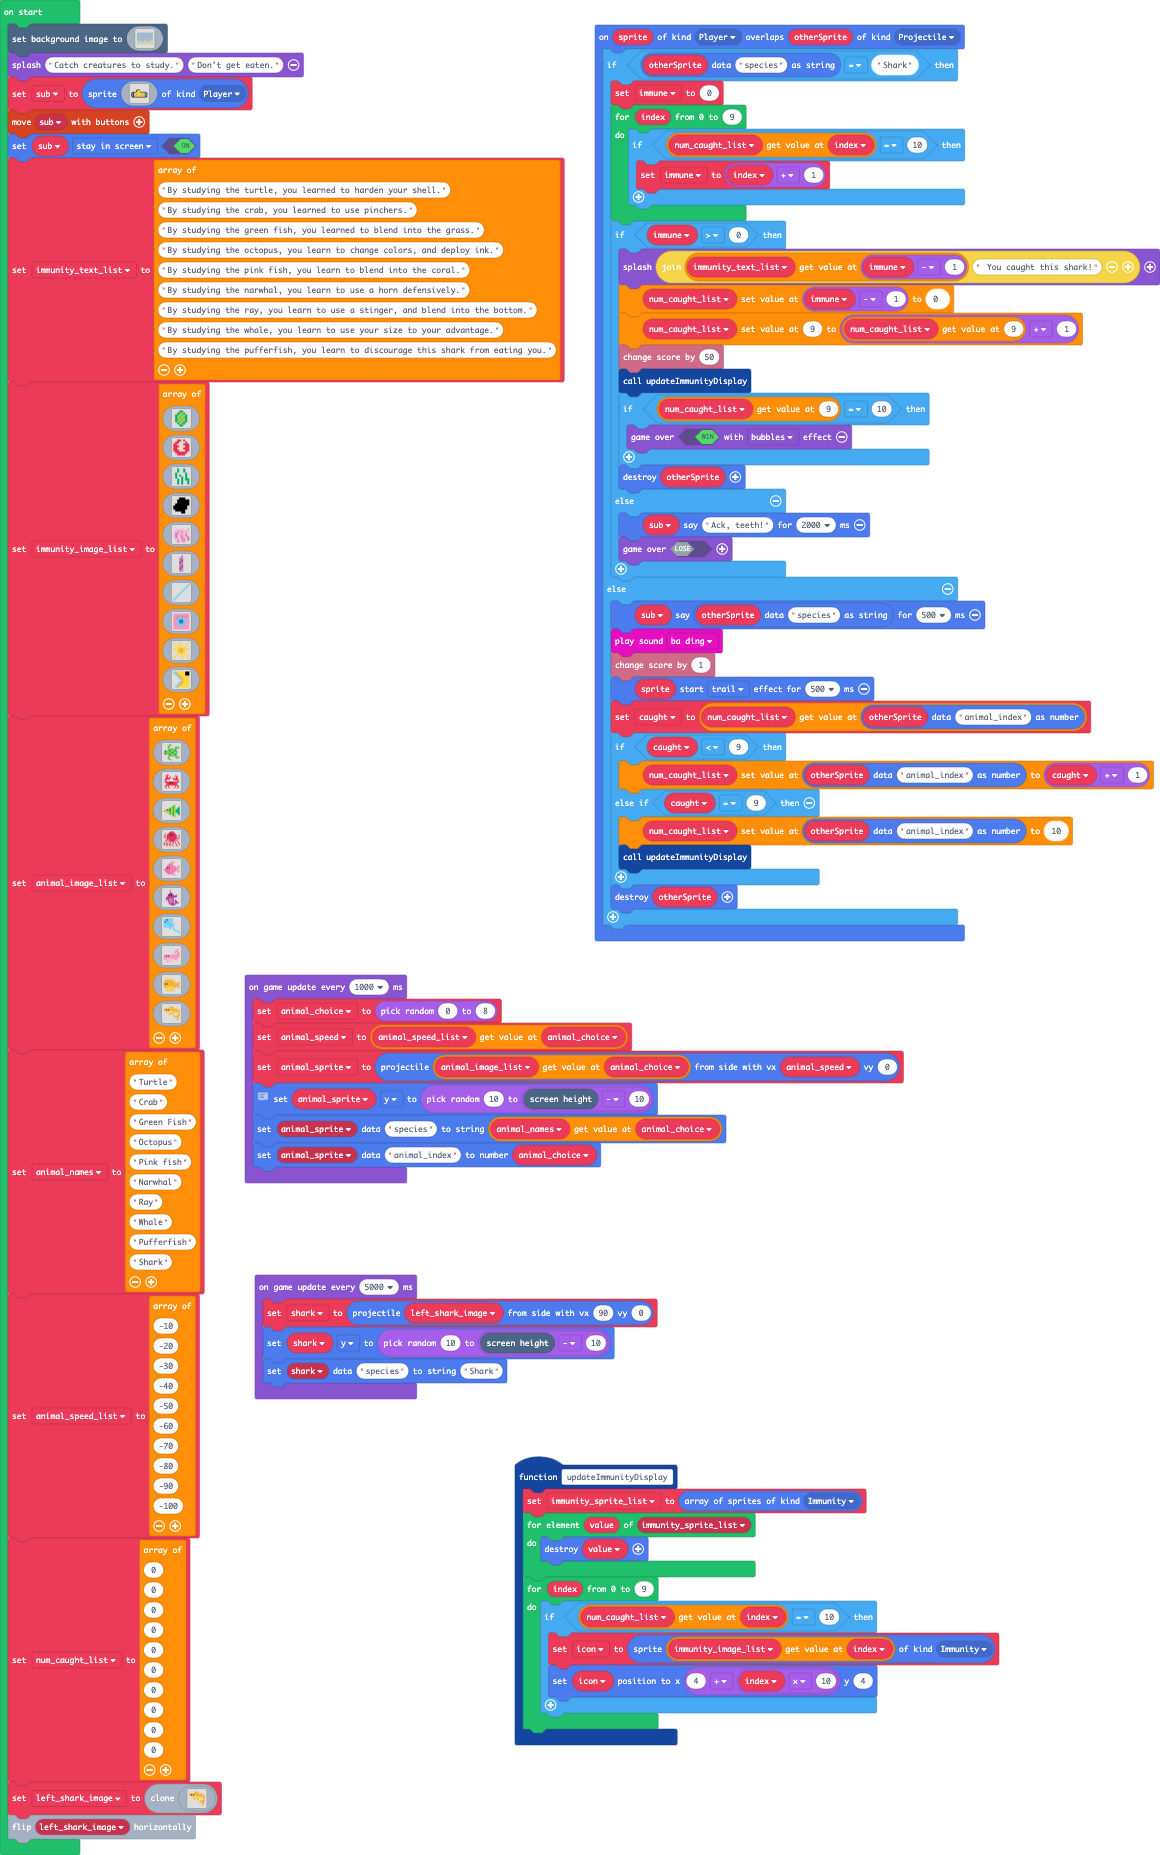
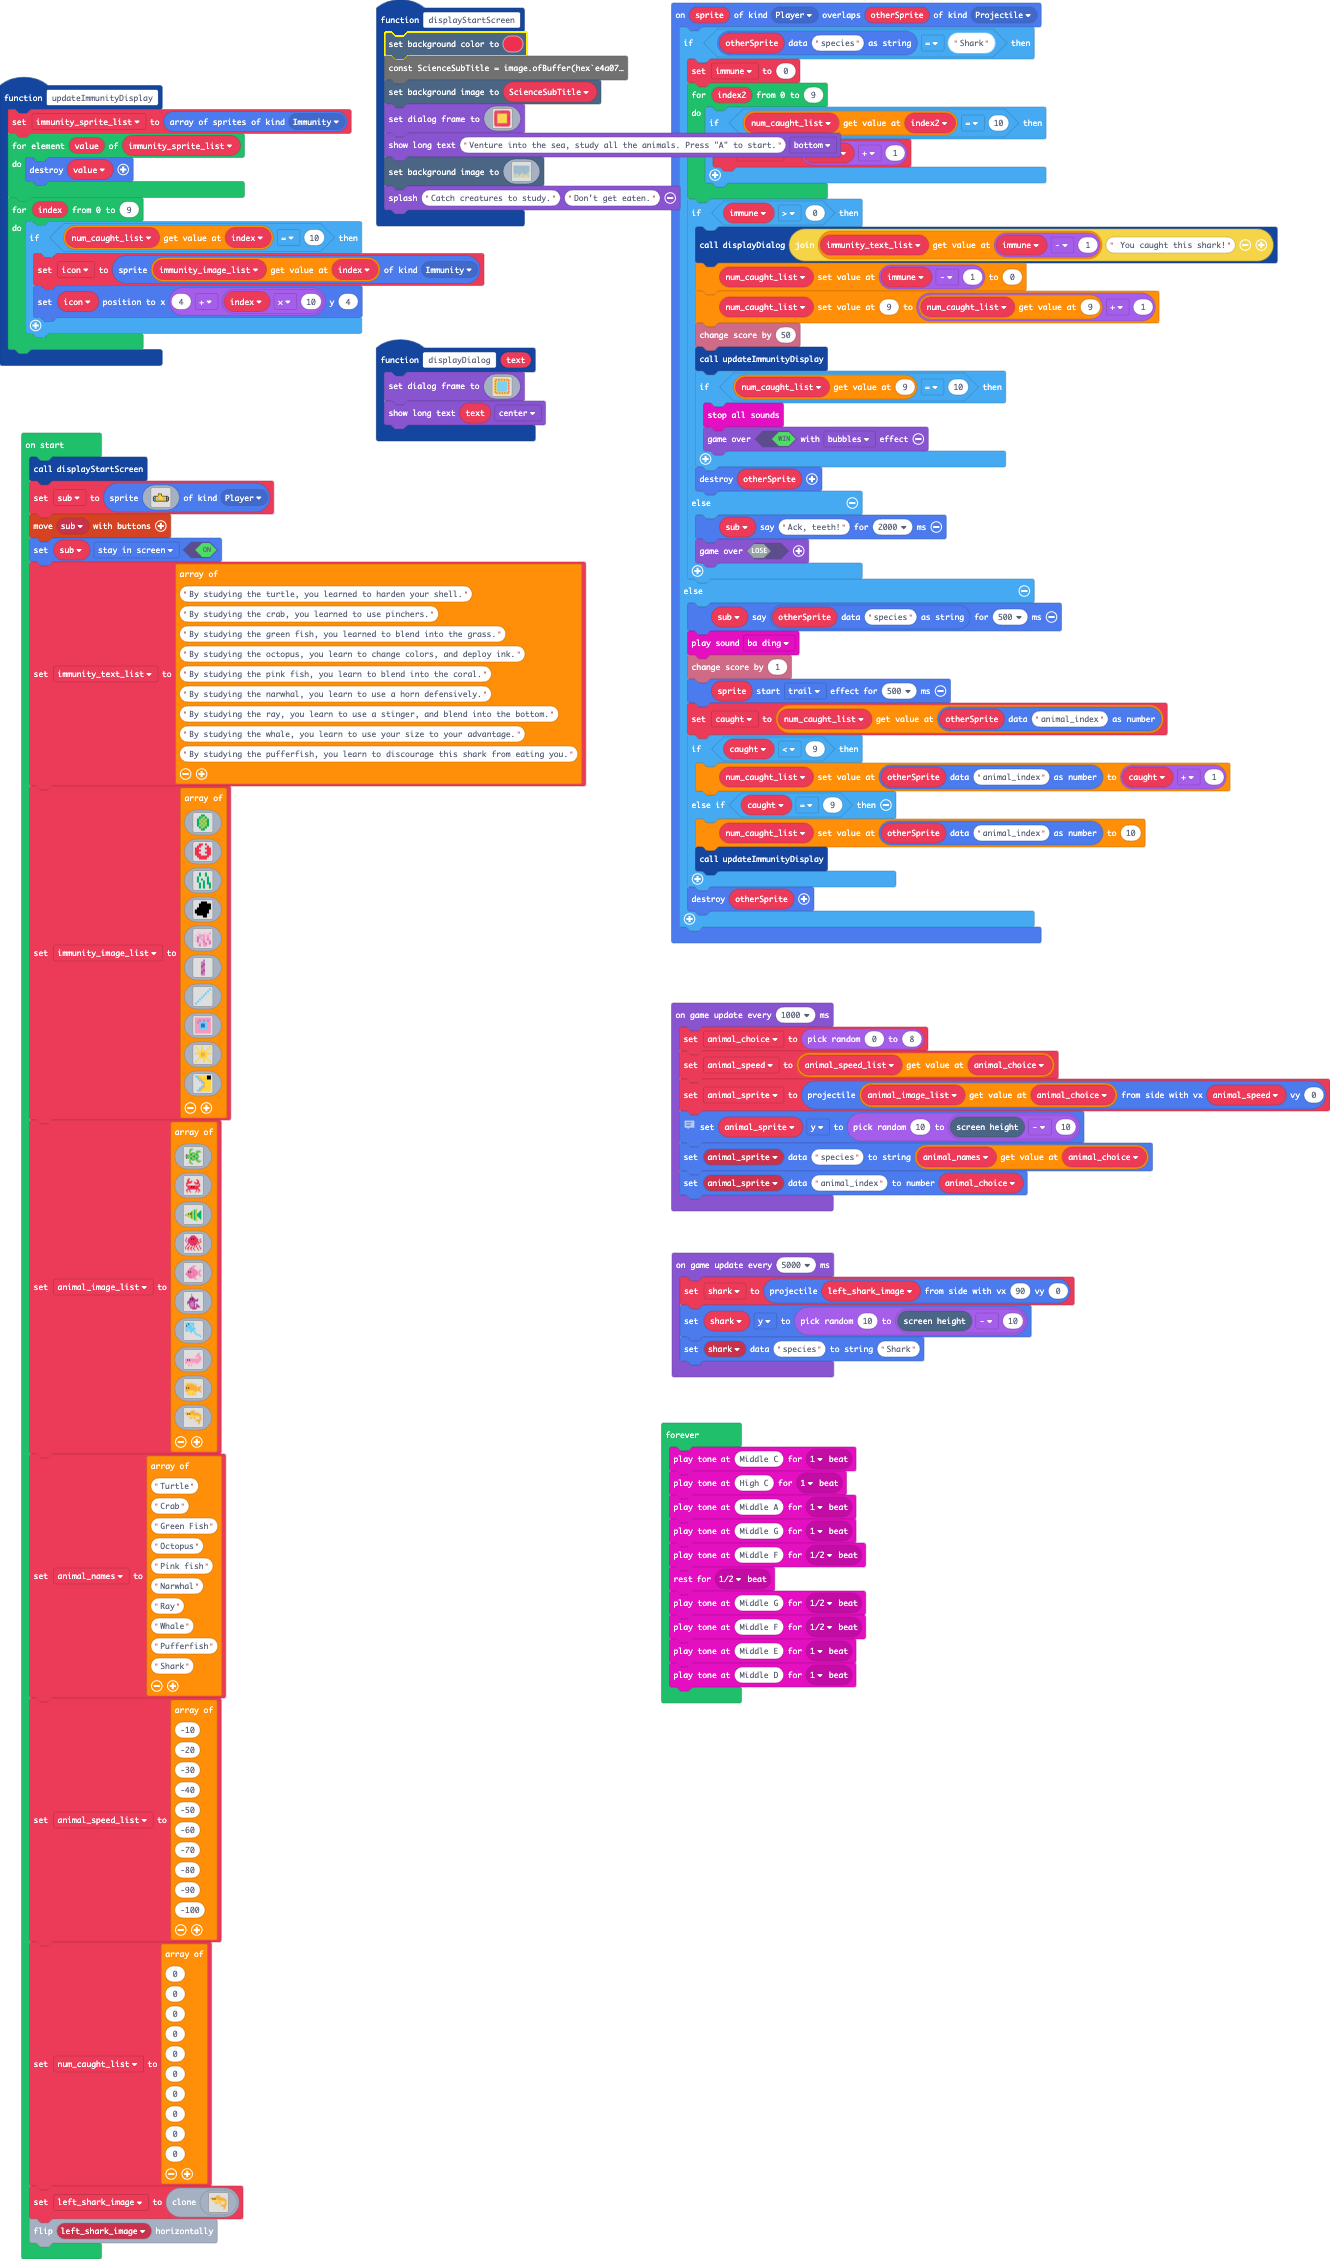
Title Screen, theme music.

diff --git a/main.ts b/main.ts
@@ -41,6 +41,35 @@ namespace myTiles {
 . . . . . . . . . . . . . . . . 
 `
 }
+function displayDialog (text: string) {
+    game.setDialogFrame(img`
+. . e e e e e e e e e e e e e e e e e e e e . . 
+. e 4 4 e e 4 4 e e 4 4 e e 4 4 e e 4 4 e e e . 
+e e e 4 4 e e 4 4 e e 4 4 e e 4 4 e e 4 4 e 4 e 
+e e 4 e e e e e e e e e e e e e e e e e e 4 4 e 
+e 4 4 e e b b b b b b b b b b b b b b e e 4 e e 
+e 4 e e b b b b b b b b b b b b b b b b e e e e 
+e e e e b b b b b b b b b b b b b b b b e e 4 e 
+e e 4 e b b b b b b b b b b b b b b b b e 4 4 e 
+e 4 4 e b b b b b b b b b b b b b b b b e 4 e e 
+e 4 e e b b b b b b b b b b b b b b b b e e e e 
+e e e e b b b b b b b b b b b b b b b b e e 4 e 
+e e 4 e b b b b b b b b b b b b b b b b e 4 4 e 
+e 4 4 e b b b b b b b b b b b b b b b b e 4 e e 
+e 4 e e b b b b b b b b b b b b b b b b e e e e 
+e e e e b b b b b b b b b b b b b b b b e e 4 e 
+e e 4 e b b b b b b b b b b b b b b b b e 4 4 e 
+e 4 4 e b b b b b b b b b b b b b b b b e 4 e e 
+e 4 e e b b b b b b b b b b b b b b b b e e e e 
+e e e e b b b b b b b b b b b b b b b b e e 4 e 
+e e 4 e e b b b b b b b b b b b b b b e e 4 4 e 
+e 4 4 e e e e e e e e e e e e e e e e e e 4 e e 
+e 4 e 4 4 e e 4 4 e e 4 4 e e 4 4 e e 4 4 e e e 
+. e e e 4 4 e e 4 4 e e 4 4 e e 4 4 e e 4 4 e . 
+. . e e e e e e e e e e e e e e e e e e e e . . 
+`)
+    game.showLongText(text, DialogLayout.Center)
+}
 function updateImmunityDisplay () {
     immunity_sprite_list = sprites.allOfKind(SpriteKind.Immunity)
     for (let value of immunity_sprite_list) {
@@ -53,56 +82,29 @@ function updateImmunityDisplay () {
         }
     }
 }
-sprites.onOverlap(SpriteKind.Player, SpriteKind.Projectile, function (sprite, otherSprite) {
-    if (sprites.readDataString(otherSprite, "species") == "Shark") {
-        immune = 0
-        for (let index = 0; index <= 9; index++) {
-            if (num_caught_list[index] == 10) {
-                immune = index + 1
-            }
-        }
-        if (immune > 0) {
-            game.splash("" + immunity_text_list[immune - 1] + " You caught this shark!")
-            num_caught_list[immune - 1] = 0
-            num_caught_list[9] = num_caught_list[9] + 1
-            info.changeScoreBy(50)
-            updateImmunityDisplay()
-            if (num_caught_list[9] == 10) {
-                game.over(true, effects.bubbles)
-            }
-            otherSprite.destroy()
-        } else {
-            sub.say("Ack, teeth!", 2000)
-            game.over(false)
-        }
-    } else {
-        sub.say(sprites.readDataString(otherSprite, "species"), 500)
-        music.baDing.play()
-        info.changeScoreBy(1)
-        sprite.startEffect(effects.trail, 500)
-        caught = num_caught_list[sprites.readDataNumber(otherSprite, "animal_index")]
-        if (caught < 9) {
-            num_caught_list[sprites.readDataNumber(otherSprite, "animal_index")] = caught + 1
-        } else if (caught == 9) {
-            num_caught_list[sprites.readDataNumber(otherSprite, "animal_index")] = 10
-            updateImmunityDisplay()
-        }
-        otherSprite.destroy()
-    }
-})
-let animal_sprite: Sprite = null
-let animal_speed = 0
-let animal_choice = 0
-let shark: Sprite = null
-let caught = 0
-let immune = 0
-let icon: Sprite = null
-let immunity_sprite_list: Sprite[] = []
-let num_caught_list: number[] = []
-let immunity_image_list: Image[] = []
-let immunity_text_list: string[] = []
-let sub: Sprite = null
-scene.setBackgroundImage(img`
+function displayStartScreen () {
+    scene.setBackgroundColor(4)
[1 lines of base64/hex data omitted]
+scene.setBackgroundImage(ScienceSubTitle)
+    game.setDialogFrame(img`
+. 4 4 4 4 4 4 4 4 4 4 4 4 4 . 
+4 4 4 4 4 4 4 4 4 4 4 4 4 4 4 
+4 4 4 4 4 4 4 4 4 4 4 4 4 4 4 
+4 4 4 e e e e e e e e e 4 4 4 
+4 4 4 e e e e e e e e e 4 4 4 
+4 4 4 e e e e e e e e e 4 4 4 
+4 4 4 e e e e e e e e e 4 4 4 
+4 4 4 e e e e e e e e e 4 4 4 
+4 4 4 e e e e e e e e e 4 4 4 
+4 4 4 e e e e e e e e e 4 4 4 
+4 4 4 e e e e e e e e e 4 4 4 
+4 4 4 e e e e e e e e e 4 4 4 
+4 4 4 4 4 4 4 4 4 4 4 4 4 4 4 
+4 4 4 4 4 4 4 4 4 4 4 4 4 4 4 
+. 4 4 4 4 4 4 4 4 4 4 4 4 4 . 
+`)
+    game.showLongText("Venture into the sea, study all the animals. Press \"A\" to start.", DialogLayout.Bottom)
+    scene.setBackgroundImage(img`
 a a a a a a a a a a a a a a a a a a a a a a a a a a a a a a a a a a a a a a a a a a a a a a a a a a a a a a a a a a a a a a a a a a a a a a a a a a a a a a a a a a a a a a a a a a a a a a a a a a a a a a a a a a a a a a a a a a a a a a a a a a a a a a a a a a a a a a a a a a a a a a a a a a a a a a a a a a a a a a a a 
 a a a a a a a a a a a a a a a a a a a a a a a a a a a a a a a a a a a a a a a a a a a a a a a a a a a a a a a a a a a a a a a a a a a a a a a a a a a a a a a a a a a a a a a a a a a a a a a a a a a a a a a a a a a a a a a a a a a a a a a a a a a a a a a a a a a a a a a a a a a a a a a a a a a a a a a a a a a a a a a a 
 a a a a a a a a a a a a a a a a a a a a a a a a a a a a a a a a a a a a a a a a a a a a a a a a a a a a a a a a a a a a a a a a a a a a a a a a a a a a a a a a a a a a a a a a a a a a a a a a a a a a a a a a a a a a a a a a a a a a a a a a a a a a a a a a a a a a a a a a a a a a a a a a a a a a a a a a a a a a a a a a 
@@ -224,7 +226,59 @@ d 7 7 7 7 7 7 7 7 7 7 7 7 7 7 7 7 7 7 7 7 d d d d d d d d d d d d 7 7 7 7 7 d d 
 7 7 7 7 7 7 7 7 7 7 7 7 7 7 7 7 7 7 7 7 7 7 7 7 7 7 7 7 7 7 7 7 7 7 7 7 7 7 7 7 7 7 7 7 7 7 7 7 7 7 7 7 7 7 7 7 7 7 7 7 7 7 7 7 7 7 7 d d d d d d 7 7 7 7 7 7 7 7 7 7 7 7 7 7 7 7 7 7 7 7 7 7 7 7 7 d d d d d d d d d d d d d d d d d d d d d d d d d d d d d d d d d d d d d d d d d d d d d d d d d d d d d d 7 7 7 7 7 7 7 7 
 7 7 7 7 7 7 7 7 7 7 7 7 7 7 7 7 7 7 7 7 7 7 7 7 7 7 7 7 7 7 7 7 7 7 7 7 7 7 7 7 7 7 7 7 7 7 7 7 7 7 7 7 7 7 7 7 7 7 7 7 7 7 7 7 7 7 7 7 7 7 7 7 7 7 7 7 7 7 7 7 7 7 7 7 7 7 7 7 7 7 7 7 7 7 7 7 7 7 d d d d d d d d d d d d d d d d d d d d d d d d d d d d d d d d d d d d d d d d d d d d d d d d d d d d d d 7 7 7 7 7 7 7 7 
 `)
-game.splash("Catch creatures to study.", "Don't get eaten.")
+    game.splash("Catch creatures to study.", "Don't get eaten.")
+}
+sprites.onOverlap(SpriteKind.Player, SpriteKind.Projectile, function (sprite, otherSprite) {
+    if (sprites.readDataString(otherSprite, "species") == "Shark") {
+        immune = 0
+        for (let index2 = 0; index2 <= 9; index2++) {
+            if (num_caught_list[index2] == 10) {
+                immune = index2 + 1
+            }
+        }
+        if (immune > 0) {
+            displayDialog("" + immunity_text_list[immune - 1] + " You caught this shark!")
+            num_caught_list[immune - 1] = 0
+            num_caught_list[9] = num_caught_list[9] + 1
+            info.changeScoreBy(50)
+            updateImmunityDisplay()
+            if (num_caught_list[9] == 10) {
+                music.stopAllSounds()
+                game.over(true, effects.bubbles)
+            }
+            otherSprite.destroy()
+        } else {
+            sub.say("Ack, teeth!", 2000)
+            game.over(false)
+        }
+    } else {
+        sub.say(sprites.readDataString(otherSprite, "species"), 500)
+        music.baDing.play()
+        info.changeScoreBy(1)
+        sprite.startEffect(effects.trail, 500)
+        caught = num_caught_list[sprites.readDataNumber(otherSprite, "animal_index")]
+        if (caught < 9) {
+            num_caught_list[sprites.readDataNumber(otherSprite, "animal_index")] = caught + 1
+        } else if (caught == 9) {
+            num_caught_list[sprites.readDataNumber(otherSprite, "animal_index")] = 10
+            updateImmunityDisplay()
+        }
+        otherSprite.destroy()
+    }
+})
+let animal_sprite: Sprite = null
+let animal_speed = 0
+let animal_choice = 0
+let shark: Sprite = null
+let caught = 0
+let immune = 0
+let icon: Sprite = null
+let immunity_sprite_list: Sprite[] = []
+let num_caught_list: number[] = []
+let immunity_image_list: Image[] = []
+let immunity_text_list: string[] = []
+let sub: Sprite = null
+displayStartScreen()
 sub = sprites.create(img`
 . . . . . . . . . . . f f f f f f . . . . . . . . . . . . . . . 
 . . . . . . . . . . f d e d e e e f . . . . . . . . . . . . . . 
@@ -534,6 +588,18 @@ game.onUpdateInterval(5000, function () {
     shark = sprites.createProjectileFromSide(left_shark_image, 90, 0)
     shark.y = Math.randomRange(10, scene.screenHeight() - 10)
     sprites.setDataString(shark, "species", "Shark")
+})
+forever(function () {
+    music.playTone(262, music.beat(BeatFraction.Whole))
+    music.playTone(523, music.beat(BeatFraction.Whole))
+    music.playTone(440, music.beat(BeatFraction.Whole))
+    music.playTone(392, music.beat(BeatFraction.Whole))
+    music.playTone(349, music.beat(BeatFraction.Half))
+    music.rest(music.beat(BeatFraction.Half))
+    music.playTone(392, music.beat(BeatFraction.Half))
+    music.playTone(349, music.beat(BeatFraction.Half))
+    music.playTone(330, music.beat(BeatFraction.Whole))
+    music.playTone(294, music.beat(BeatFraction.Whole))
 })
 game.onUpdateInterval(1000, function () {
     animal_choice = Math.randomRange(0, 8)
